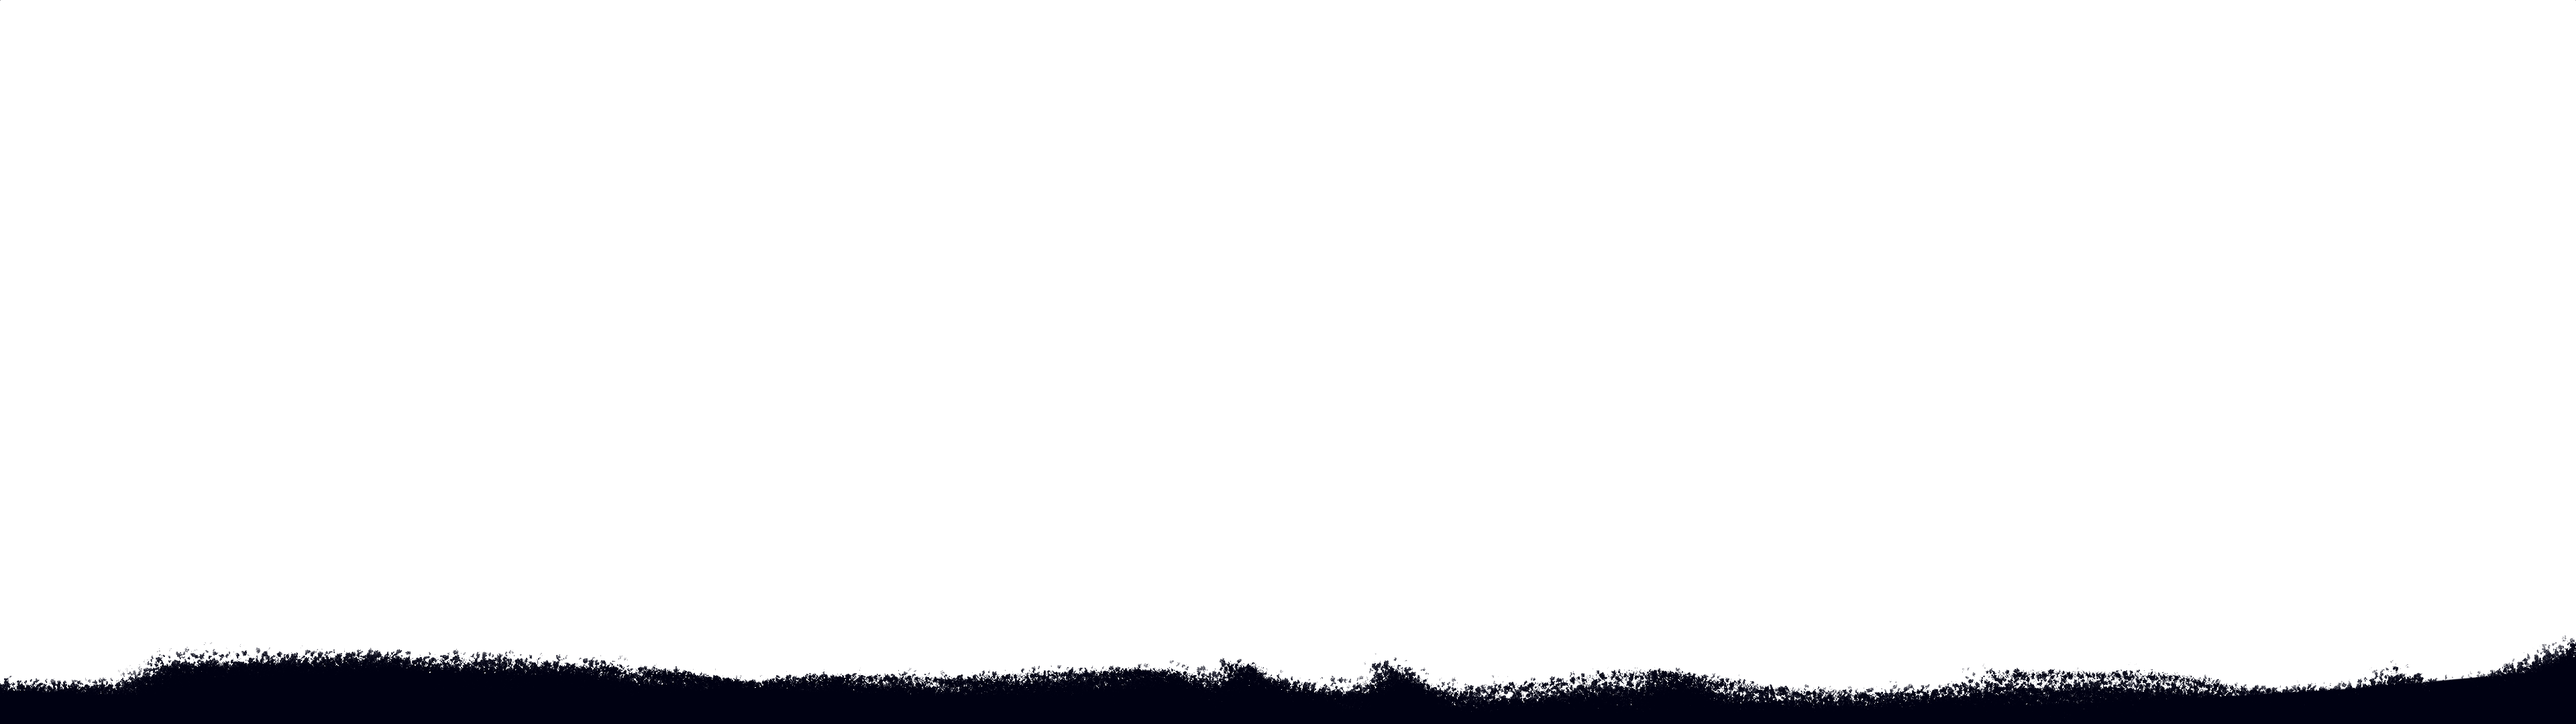
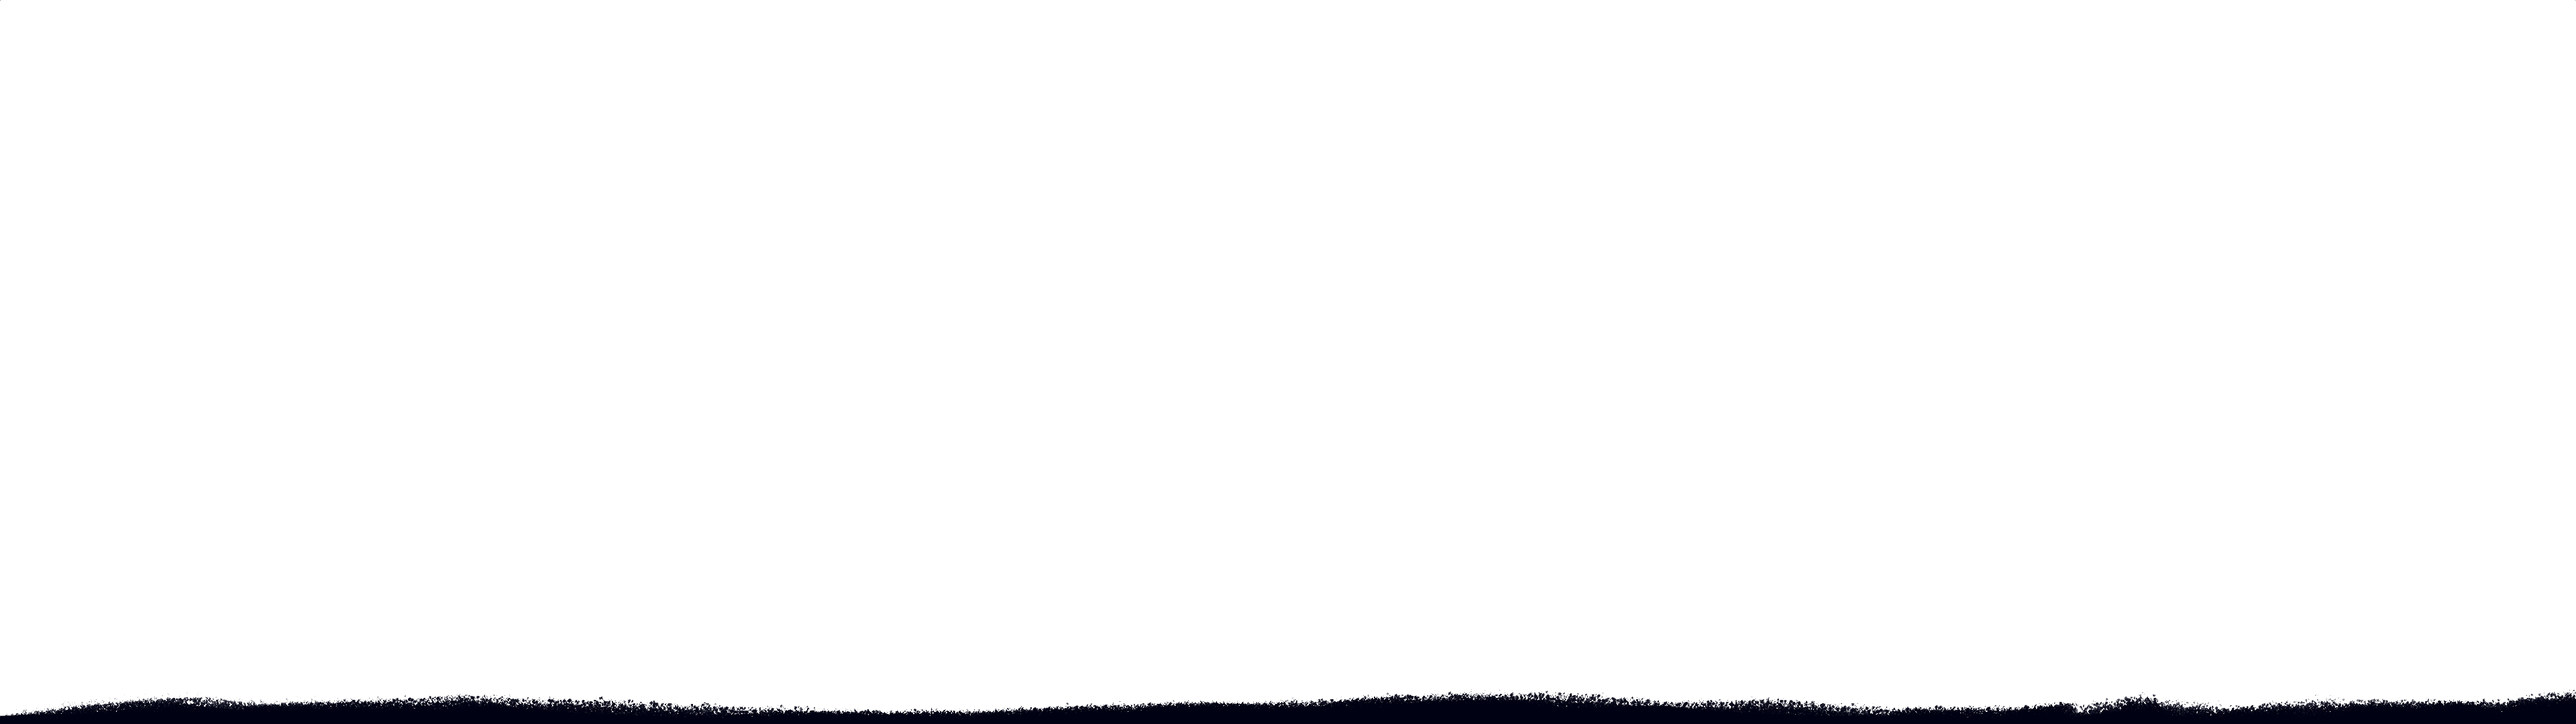
parallax updated, rearranged text behind trees

Changed region(s): [[0.0, 0.8861, 1.0, 1.0]]

diff --git a/src/pages/home.js b/src/pages/home.js
@@ -11,12 +11,12 @@ const Home = () => {
                         amount: 1,
                     },
                     {
-                        image: 'https://github.com/team2-4/2-4/blob/master/src/media/images/campfire/1.png?raw=true',
-                        amount: 0.3,
+                        children: (<h1 style={{'textAlign':'center', 'marginTop':'45vh'}}>Rhythm of the night</h1>),
+                        amount: 0.7
                     },
                     {
-                        children: (<h1 style={{'textAlign':'center', 'marginTop':'10rem'}}>Rhythm of the night</h1>),
-                        amount: 0
+                        image: 'https://github.com/team2-4/2-4/blob/master/src/media/images/campfire/1.png?raw=true',
+                        amount: 0.3,
                     },
                     {
                         image: 'https://github.com/team2-4/2-4/blob/master/src/media/images/campfire/2.png?raw=true',
